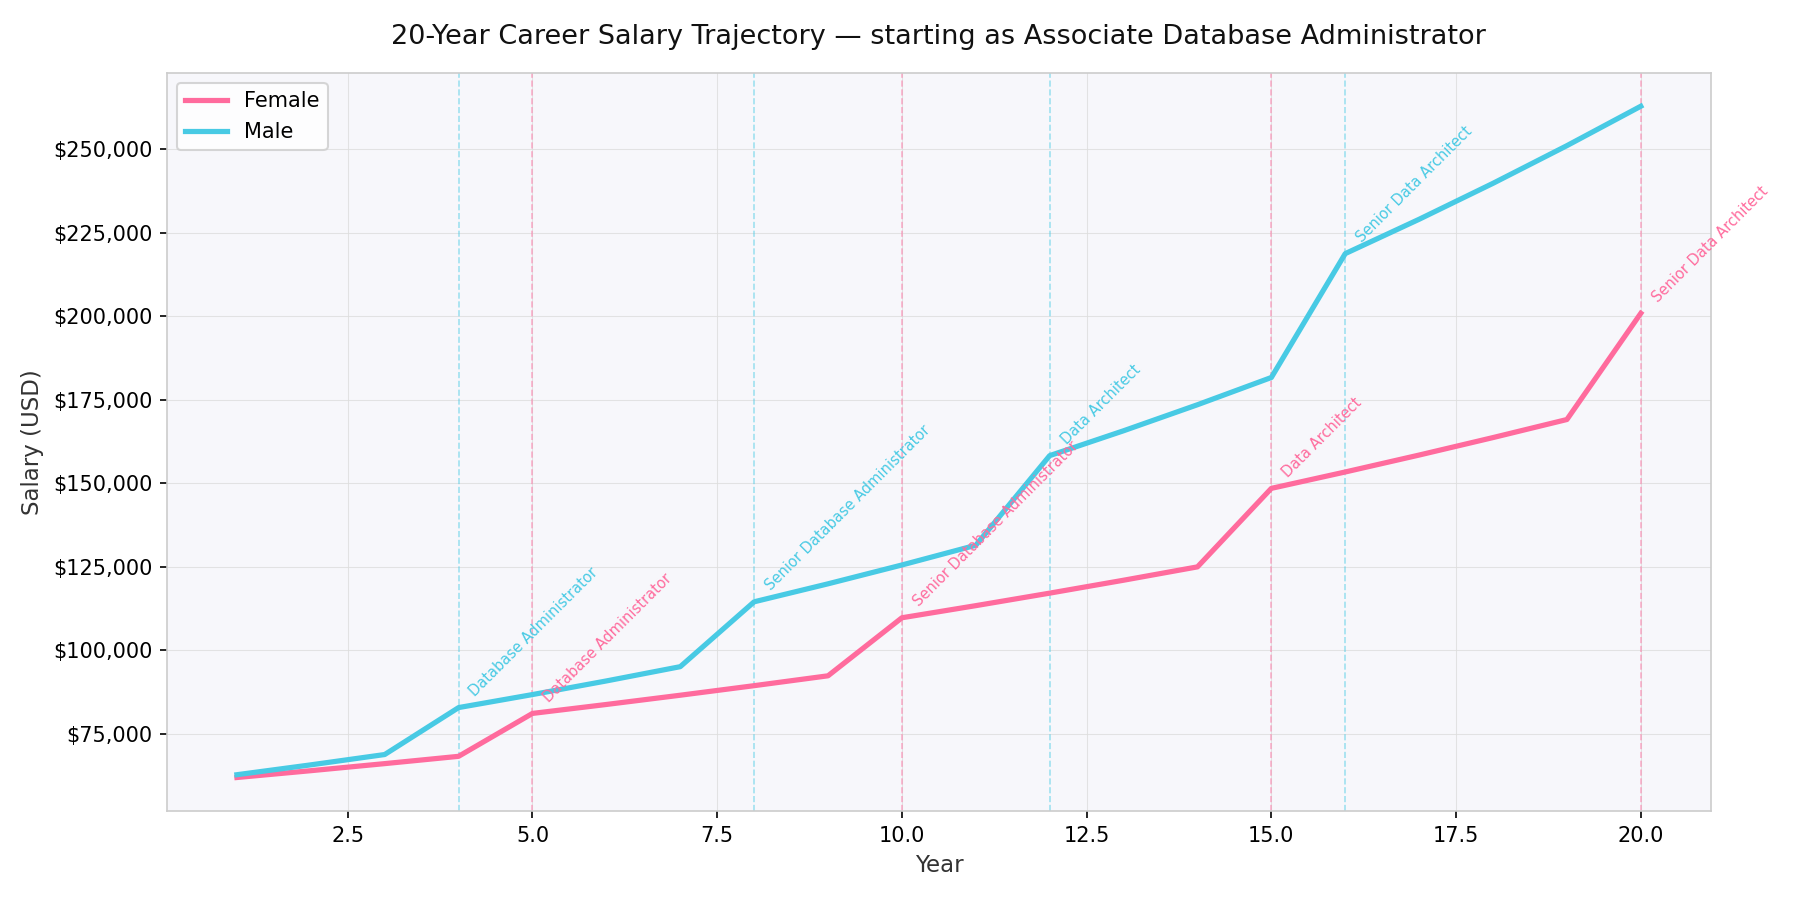
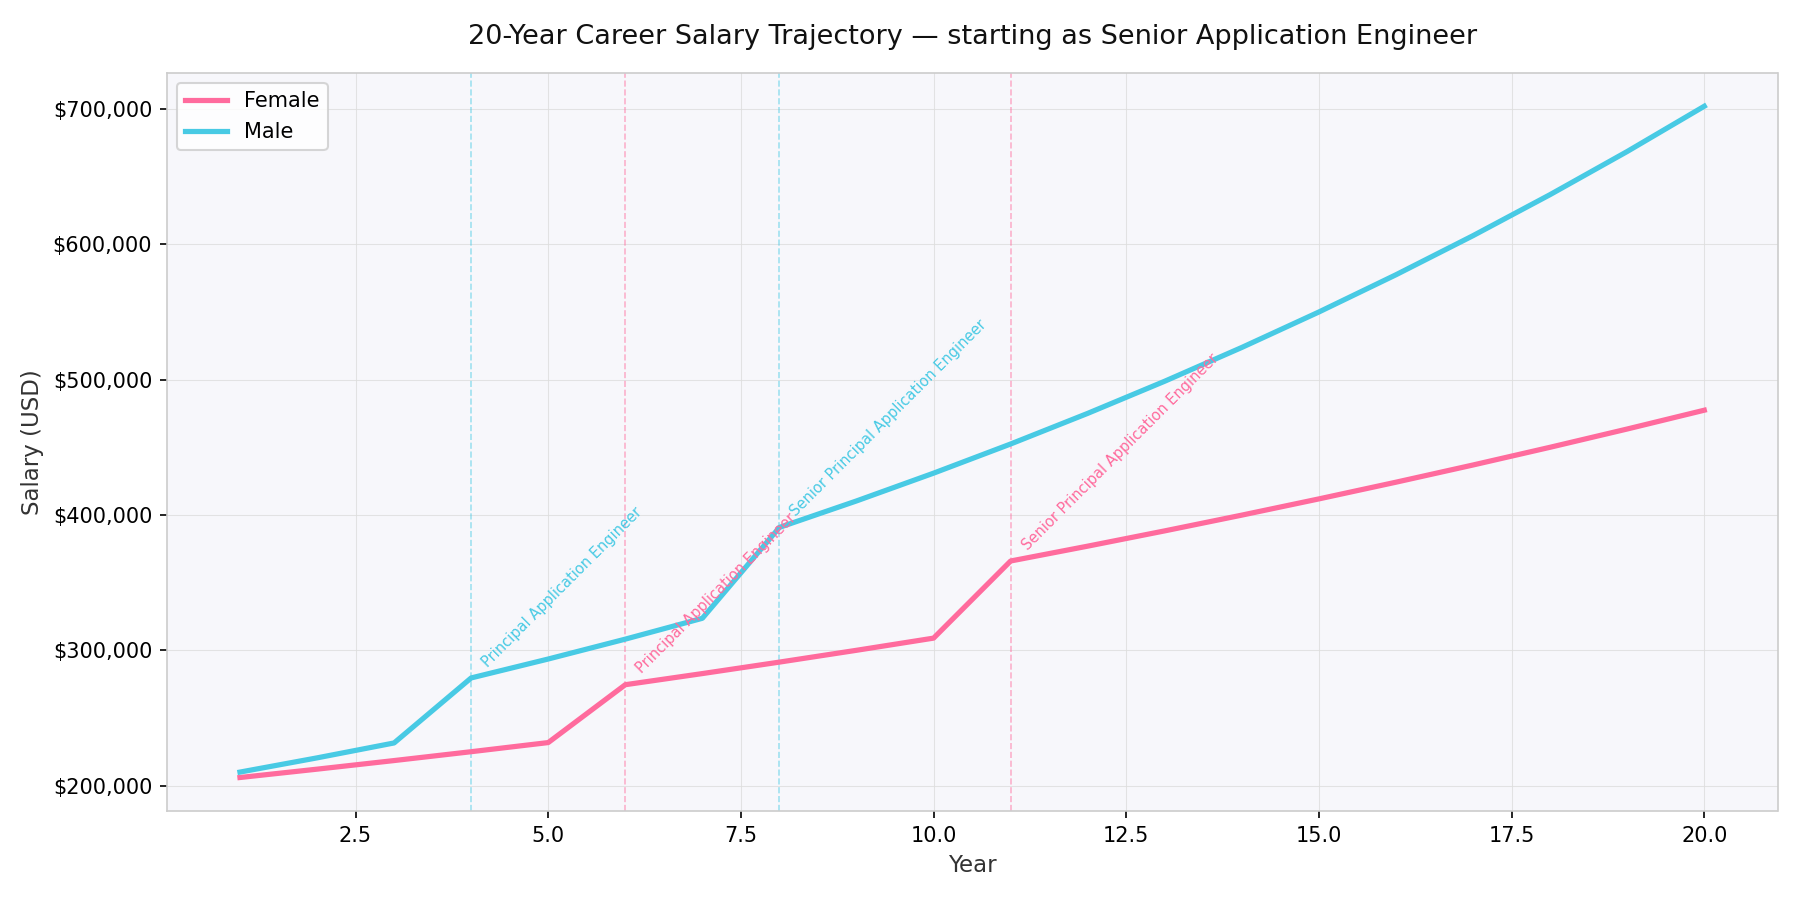
small change to frontend

diff --git a/src/App.jsx b/src/App.jsx
@@ -441,7 +441,7 @@ const LoadingOverlay = () => (
         {/* ── BAR CHART ── */}
         {tab === "bar" && <>
           <h3 style={{ fontFamily: "'Cormorant Garamond',serif", fontSize: 30, fontWeight: 700, marginBottom: 4, color: C.text }}>
-            Your cluster insights
+            Pay Gap Analysis
           </h3>
           <p style={{ fontSize: 10, color: C.muted, fontFamily: "'DM Mono',monospace", marginBottom: 24 }}>
             Cluster-average salary &amp; promotion probability · men vs. women
@@ -478,7 +478,7 @@ const LoadingOverlay = () => (
 
         {/* ── CLUSTER ── */}
         {tab === "cluster" && <>
-          <h3 style={{ fontFamily: "'Cormorant Garamond',serif", fontSize: 22, fontWeight: 700, marginBottom: 4, color: C.text }}>
+          <h3 style={{ fontFamily: "'Cormorant Garamond',serif", fontSize: 30, fontWeight: 700, marginBottom: 4, color: C.text }}>
             Salary cluster analysis
           </h3>
           <p style={{ fontSize: 10, color: C.muted, fontFamily: "'DM Mono',monospace", marginBottom: 20 }}>
@@ -499,8 +499,8 @@ const LoadingOverlay = () => (
 
         {/* ── LINE CHART ── */}
         {tab === "line" && <>
-          <h3 style={{ fontFamily: "'Cormorant Garamond',serif", fontSize: 22, fontWeight: 700, marginBottom: 4, color: C.text }}>
-            Salary over time
+          <h3 style={{ fontFamily: "'Cormorant Garamond',serif", fontSize: 30, fontWeight: 700, marginBottom: 4, color: C.text }}>
+            Progression over time
           </h3>
           <p style={{ fontSize: 10, color: C.muted, fontFamily: "'DM Mono',monospace", marginBottom: 20 }}>
             {mlResult ? "20-year projected trajectory · men vs. women" : "Projected salary trajectory: men vs women"}